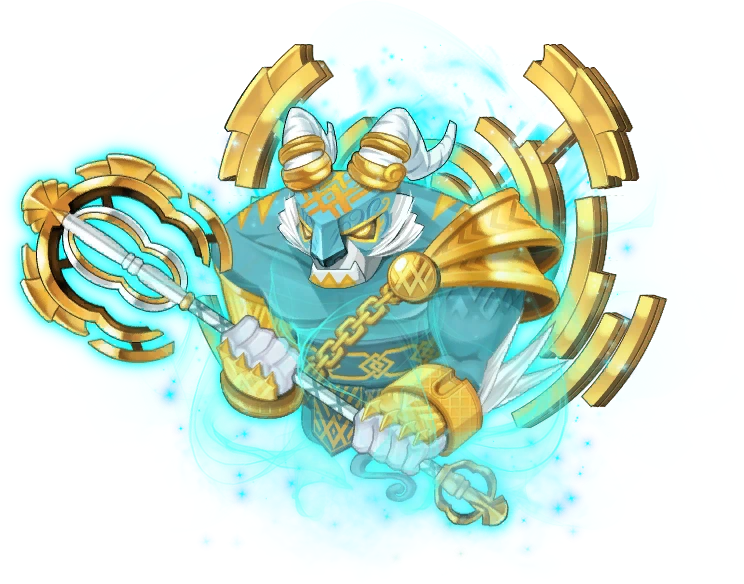
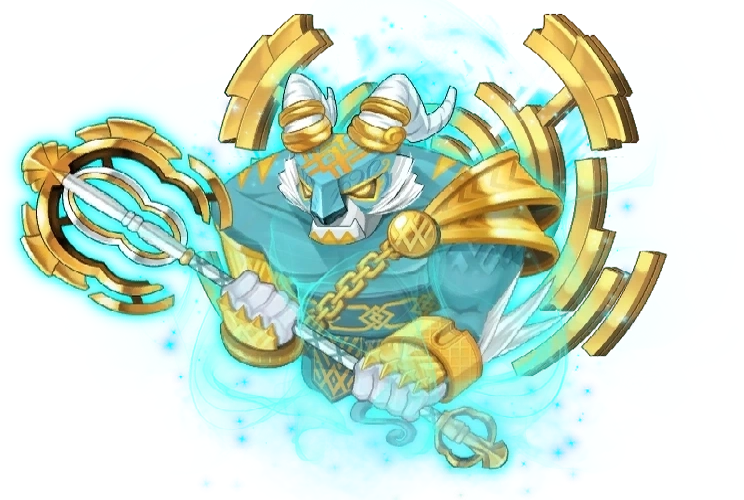
a lot of adjustments

diff --git a/code.js b/code.js
@@ -1,5 +1,6 @@
-function makeTimer(name, start, section) {
+function makeTimer(name, start, containerId, repeat = false) {
     let time = start;
+    const section = document.getElementById(containerId);
 
     const btn = document.createElement("button");
     btn.textContent = name + ": " + time + "s";
@@ -9,7 +10,12 @@ function makeTimer(name, start, section) {
             time--;
             btn.textContent = name + ": " + time + "s";
             if (time === 0) {
-                    btn.style.color = "red"; // turn red at 0
+                btn.style.color = "red"; // turn red at 0
+                if (repeat) {
+                    time = start; // restart timer automatically
+                    btn.textContent = name + ": " + time + "s";
+                    btn.style.color = "#ABD2FA"; // reset color
+                }
             }
         }
     }, 1000);
@@ -24,58 +30,68 @@ function makeTimer(name, start, section) {
 }
 
 function dog() {
-    let section = document.getElementById("timers");
+    const containerId = "timers1";
+    const section = document.getElementById(containerId);
     section.innerHTML = "";
+    document.getElementById("phaseOneTitle").innerText = "Phase One: Dog";
+    document.getElementById("dog").style = "opacity: 1;";
+    document.getElementById("bird").style = "opacity: 0.5;";
+    document.getElementById("tiger").style = "opacity: 0.5;";
 
-    // update peril
-    document.getElementById("phaseOne").innerHTML = "Phase One: Dog";
-
-    makeTimer("FMA", 60, section);
-    makeTimer("Cloud", 37, section);
+    makeTimer("FMA", 60, containerId);
+    makeTimer("Cloud", 35, containerId);
 }
 
 function bird() {
-    let section = document.getElementById("timers");
+    const containerId = "timers1";
+    const section = document.getElementById(containerId);
     section.innerHTML = "";
+    document.getElementById("phaseOneTitle").innerText = "Phase One: Bird";
+    document.getElementById("dog").style = "opacity: 0.5;";
+    document.getElementById("bird").style = "opacity: 1;";
+    document.getElementById("tiger").style = "opacity: 0.5;";
 
-    // update peril
-    document.getElementById("phaseOne").innerHTML = "Phase One: Bird";
-
-    makeTimer("FMA", 60, section);
-    makeTimer("Fly", 18, section);
+    makeTimer("FMA", 60, containerId);
+    makeTimer("Fly", 18, containerId);
 }
 
 function tiger() {
-    let section = document.getElementById("timers");
+    const containerId = "timers1";
+    const section = document.getElementById(containerId);
     section.innerHTML = "";
+    document.getElementById("phaseOneTitle").innerText = "Phase One: Tiger";
+    document.getElementById("dog").style = "opacity: 0.5;";
+    document.getElementById("bird").style = "opacity: 0.5;";
+    document.getElementById("tiger").style = "opacity: 1;";
 
-    // update peril
-    document.getElementById("phaseOne").innerHTML = "Phase One: Tiger";
-
-    makeTimer("FMA", 60, section);
-    makeTimer("TP", 10, section);
+    makeTimer("FMA", 60, containerId);
+    makeTimer("TP", 10, containerId);
 }
 
 function phaseTwo() {
-    let section = document.getElementById("timers");
+    const containerId = "timers2";
+    const section = document.getElementById(containerId);
     section.innerHTML = "";
 
-    makeTimer("FMA", 60, section);
-    makeTimer("Fly", 18, section);
-    makeTimer("Scroll", 30, section);
-    makeTimer("Clutch", 10, section);
-    makeTimer("TP", 8, section);
+    document.getElementById("p2").style = "opacity: 0.5;";
+    makeTimer("FMA", 60, containerId, true);
+    makeTimer("Fly", 18, containerId);
+    makeTimer("Scroll", 30, containerId);
+    makeTimer("Clutch", 10, containerId);
+    makeTimer("TP", 8, containerId);
 }
 
 function phaseThree() {
-    let section = document.getElementById("timers");
+    const containerId = "timers3";
+    const section = document.getElementById(containerId);
     section.innerHTML = "";
     
     let clutchTimer = 13;
 
-    makeTimer("Chain", 10, section);
-    makeTimer("Clutch", clutchTimer, section); // WIP change to 10 after all 3 peril dead
-    makeTimer("Slam", 13, section);
-    makeTimer("Scroll", 12, section);
+    document.getElementById("p3").style = "opacity: 0.5;";
+    makeTimer("Chain", 10, containerId);    
+    makeTimer("Clutch", clutchTimer, containerId, true);
+    makeTimer("Slam", 13, containerId);
+    makeTimer("Scroll", 12, containerId);
 
 }

diff --git a/index.html b/index.html
@@ -2,11 +2,16 @@
 <html lang="en">
 
 <head>
-    <title>Hard Kaling Timer</title>
+    <title>MapleStory Kaling Timer</title>
     <meta charset="utf-8">
     <meta http-equiv="X-UA-Compatible" content="IE=edge">
-    <meta name= "viewport" content="width=device-width, initial-scale=1">
-    
+    <meta name="viewport" content="width=device-width, initial-scale=1">
+
+    <link rel="icon" type="image/x-icon" href="/images/mobicon.webp">
+    <link rel="preconnect" href="https://fonts.googleapis.com">
+    <link rel="preconnect" href="https://fonts.gstatic.com" crossorigin>
+    <link href="https://fonts.googleapis.com/css2?family=Lexend:wght@100..900&family=Roboto+Flex:opsz,wght,XOPQ,XTRA,YOPQ,YTDE,YTFI,YTLC,YTUC@8..144,100..1000,96,468,79,-203,738,514,712&display=swap" rel="stylesheet">
+
     <link rel="stylesheet" href="style.css">
     <script src="code.js" defer></script>
 </head>
@@ -15,29 +20,57 @@
     <div class="header">
         <h1>MapleStory Hard Kaling Timer</h1><br>
         <div class="swaps">
-            <button onclick="window.location.href='index.html'">P1</button>
-            <button onclick="window.location.href='p2.html'">P2</button>
-            <button onclick="window.location.href='p3.html'">P3</button>
+            <button onclick="showPhase('phase1')">P1</button>
+            <button onclick="showPhase('phase2')">P2</button>
+            <button onclick="showPhase('phase3')">P3</button>
         </div>
     </div>
-    
+
     <br><br>
 
     <div class="mainContainer">
-        <h1 id="phaseOne">Phase One:</h1>
-        <button class="peril" onclick="dog()" id="dog"><img src="images/hundun.webp"></button>
-        <button class="peril" onclick="bird()" id="tiger"><img src="images/qiongqi.webp"></button>
-        <button class="peril" onclick="tiger()" id="bird"><img src="images/taowu.webp"></button>
-        
-        <div id="timers">
-            <br><br>
-            <h1>Choose a Peril</h1>
+        <div id="phase1" class="phase" style="display: none;">
+            <h1 id="phaseOneTitle">Phase One:</h1>
+            <button class="peril" onclick="dog()" id="dog"><img src="images/hundun.webp"></button>
+            <button class="peril" onclick="bird()" id="bird"><img src="images/qiongqi.webp"></button>
+            <button class="peril" onclick="tiger()" id="tiger"><img src="images/taowu.webp"></button>
+            <div id="timers1" class="timers">
+                <br>
+                <h1>Choose a Peril</h1>
+            </div>
         </div>
 
-        <div id="footer">
-            <h1><a href="https://www.youtube.com/@maplestoryweeklyclips/" target="_blank">Made by Pvac (BlueStixs)</a></h1>
-            <h1>Contact @peevac on discord for any bugs</h1>
+        <div id="phase2" class="phase" style="display: none;">
+            <h1>Phase Two:</h1>
+            <button class="peril" onclick="phaseTwo()" id="p2"><img src="images/kaling.webp"></button>
+            <div id="timers2" class="timers">
+                <br>
+                <h1>Click on Kaling when Ready</h1>
+            </div>
+        </div>
+
+        <div id="phase3" class="phase" style="display: none;">
+            <h1>Phase Three:</h1>
+            <button class="peril" onclick="phaseThree()" id="p3"><img src="images/frenzied.webp"></button>
+            <div id="timers3" class="timers">
+                <br>
+                <h1>Click on Kaling when Ready</h1>
+            </div>
         </div>
     </div>
+
+    <div id="footer">
+        <h1><a href="https://www.youtube.com/@maplestoryweeklyclips/" target="_blank">Made by Pvac (BlueStixs)</a></h1>
+        <h1>Contact @peevac on discord for any bugs</h1>
+    </div>
+
+    <script>
+        function showPhase(phaseId) {
+            const phases = document.querySelectorAll('.phase');
+            phases.forEach(phase => phase.style.display = 'none');
+            document.getElementById(phaseId).style.display = 'block';
+        }
+        showPhase('phase1');
+    </script>
 </body>
 </html>

diff --git a/style.css b/style.css
@@ -1,14 +1,16 @@
 * {
     margin: 0;
     padding: 0;
-    background-color: #0D0221;
-    font-family:Arial, 'Times New Roman', Times, serif;
+    background-color: #1e1e1e;
+    font-family: "Lexend", sans-serif;
+}
+
+h1 {
+    font-weight: normal;
 }
 
 .header {
     position: sticky;
-    background-color: #0D0221;
-    border-bottom: #0F084B 0.5rem solid;
 }
 
 .header h1 {
@@ -17,6 +19,7 @@
     font-size: 1.5rem;
     padding: 1rem;
 }
+
 .swaps {
     margin: 0 auto;
     text-align: center;
@@ -25,16 +28,18 @@
 }
 
 .swaps button {
-    background-color: #0D0221;
     color: #A6CFD5;
     border: 0;
     display: inline-block;
     padding-left: 3rem;
     padding-right: 3rem;
-    padding-top: 1.5rem;
-    padding-bottom: 1.5rem;
-    font-size: 1.5rem;
-    font-weight: bold;
+    padding-top: .5rem;
+    padding-bottom: .5rem;
+    font-size: 1.25rem;
+
+    background-color: #2b2b2b;
+    border-radius: 1rem;
+    margin: 0.55rem;
 }
 
 .swaps button:hover {
@@ -64,17 +69,18 @@ button:focus {
     text-align: center;
     padding: 2rem;
     color: #ABD2FA;
-    font-size: 5rem;
+    font-size: 5rem;  
 }
 
-.mainContainer img {
-    width: 15rem;
+.mainContainer .peril img {
+    height: 10rem;
 }
 
 .mainContainer .peril:hover {
     cursor: pointer;
     transform: scale(110%);
-    transition: transform 0.2s ease;
+    transition: transform 0.5s ease;
+    transition: opacity 0.2s ease;
 }
 
 .mainContainer p {
@@ -82,15 +88,18 @@ button:focus {
     font-size: 5rem;
 }
 
-#timers button {
+.timers button {
     color: #ABD2FA;
     border: 0;
     cursor: pointer;
-    font-size: 2rem;
-    padding: 2rem;
+    font-size: 1.5rem;
+    background-color: #2b2b2b;
+    border-radius: 1rem;
+    margin: 0.75rem;
+    padding: 0.25rem 0.5rem;
 }
 
-#timers button:hover {
+.timers button:hover {
     color: white;
     background-color: #26408B;
     transition: color 0.2s ease;
@@ -110,5 +119,5 @@ button:focus {
 }
 
 #footer a:hover {
-    color: yellow;
+    color: #ABD2FA;
 }
